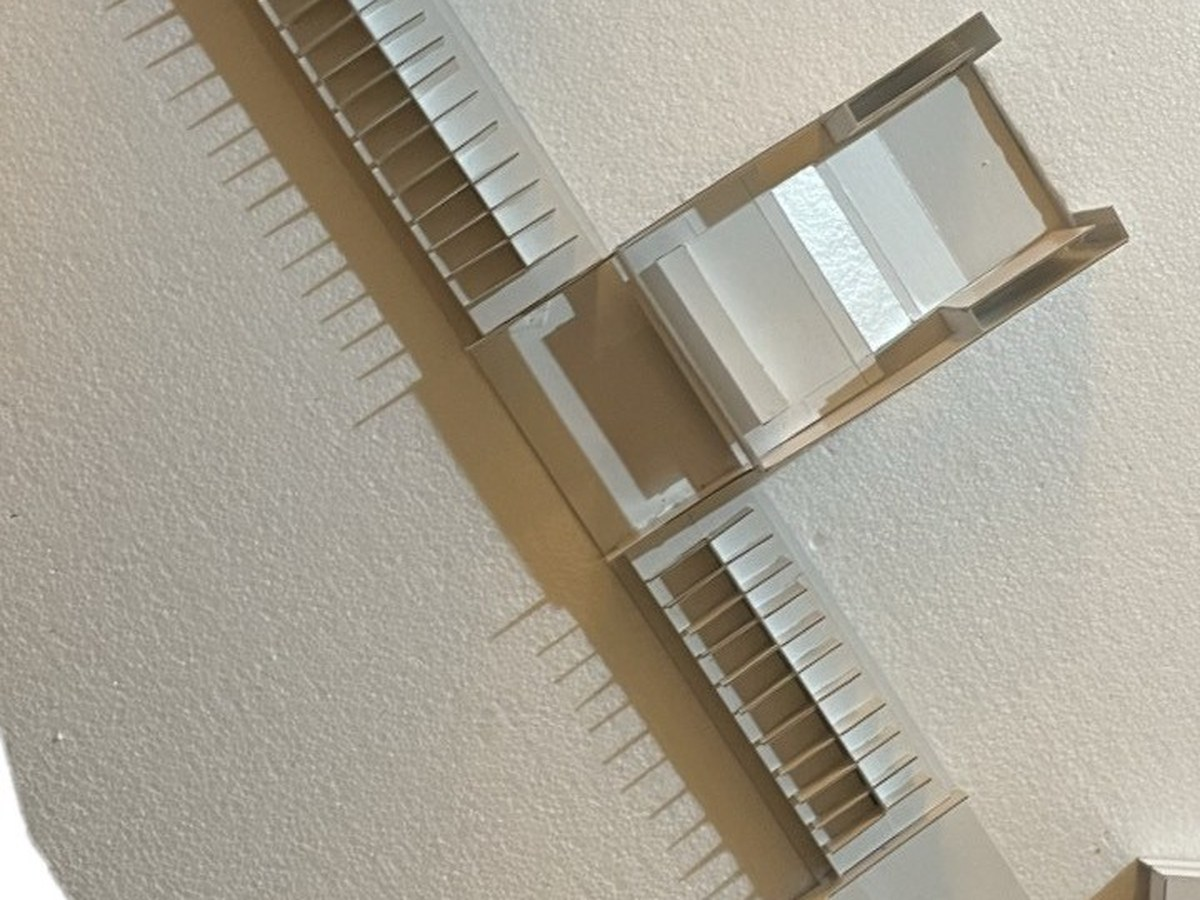
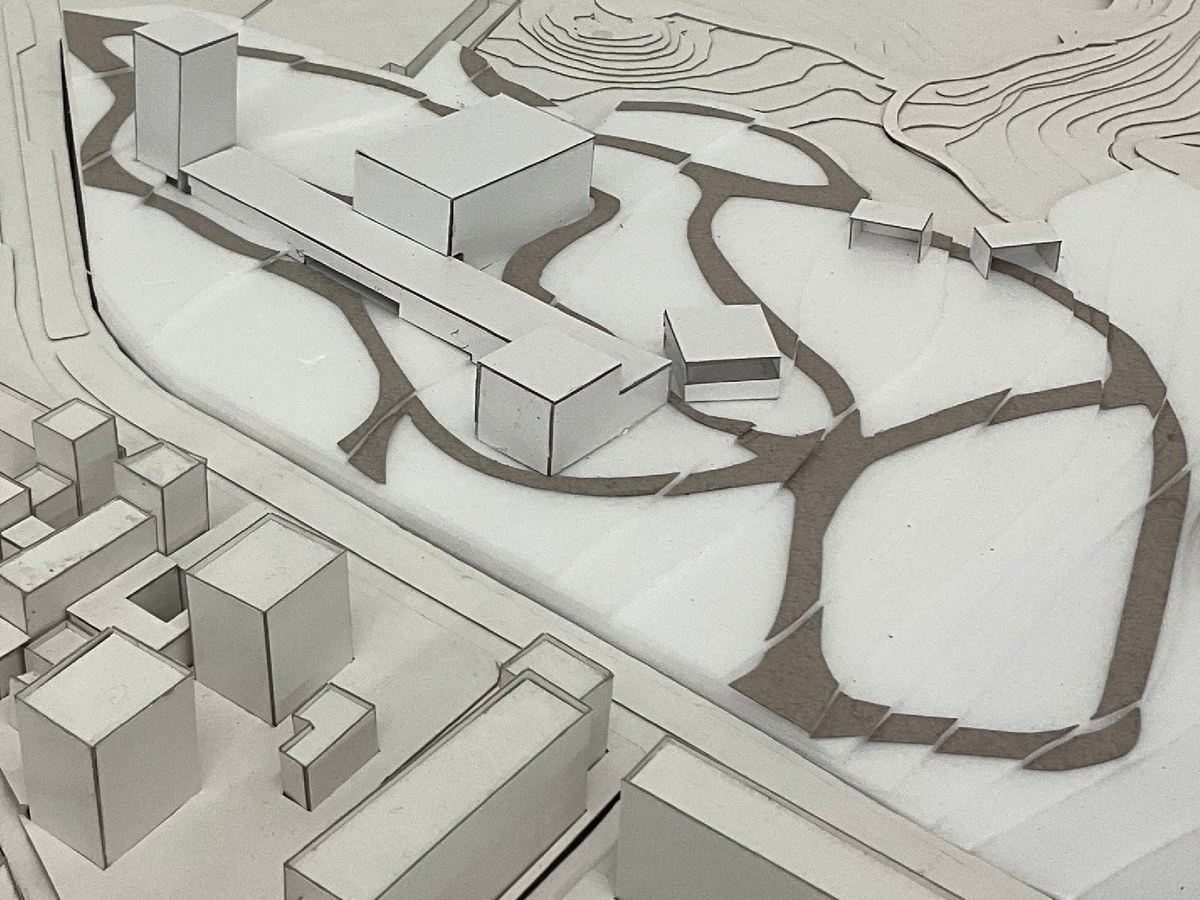
Texto mais escuro, EUROBEC e Atlas revistos, novas miniaturas
- Texto corrido mais escuro (sem a opacidade de 50% nos projetos)
- Atlas: texto revisto e troca das fotos da maquete
- EUROBEC: texto revisto, processo reorganizado, colagens alinhadas
- Rock Oporto: corte construtivo no sistema sustentável, esquisso no projeto
- Miniaturas novas do Rock Oporto e do Beber a Terra

diff --git a/css/style.css b/css/style.css
@@ -11,11 +11,11 @@
   --color-bg: #ffffff;
   --color-bg-alt: #f9f9f9;
   --color-text: #1a1a1a;
-  --color-text-secondary: #666666;
-  --color-text-tertiary: #707070;
+  --color-text-secondary: #555555;
+  --color-text-tertiary: #636363;
   --color-border: #e5e5e5;
   --color-overlay: rgba(0, 0, 0, 0.3);
-  --color-concept: #333333;
+  --color-concept: #363636;
   --color-accent: #a32a2a;
 }
 
@@ -439,7 +439,6 @@ main {
   align-items: flex-start;
   gap: 5rem;
   padding-top: 2.5rem;
-  opacity: 0.5;
 }
 
 .project-intro-body .project-concept {
@@ -578,9 +577,9 @@ main {
 
 .project-concept {
   font-size: 1.0625rem;
-  font-weight: 300;
+  font-weight: 400;
   line-height: 1.8;
-  color: #444444;
+  color: var(--color-concept);
   max-width: 70ch;
   text-align: justify;
 }
@@ -2003,7 +2002,7 @@ footer {
   max-width: 70ch;
   margin-bottom: 3rem;
   font-size: 1.0625rem;
-  font-weight: 300;
+  font-weight: 400;
   line-height: 1.8;
   color: var(--color-concept);
 }
@@ -2089,7 +2088,7 @@ footer {
   padding: 0.45rem 0;
   border-bottom: 1px solid var(--color-border);
   font-size: 0.95rem;
-  font-weight: 300;
+  font-weight: 400;
   color: var(--color-concept);
 }
 
@@ -2218,7 +2217,7 @@ footer {
 
 .research-statement-text {
   font-size: 0.95rem;
-  font-weight: 300;
+  font-weight: 400;
   line-height: 1.7;
   color: var(--color-concept);
   text-align: justify;
@@ -2245,7 +2244,7 @@ footer {
 
 .research-row-text {
   font-size: 0.95rem;
-  font-weight: 300;
+  font-weight: 400;
   line-height: 1.7;
   color: var(--color-concept);
   text-align: justify;
@@ -2381,7 +2380,7 @@ footer {
 
 .research-card-text {
   font-size: 0.9rem;
-  font-weight: 300;
+  font-weight: 400;
   line-height: 1.65;
   color: var(--color-concept);
   text-align: justify;
@@ -2406,7 +2405,7 @@ footer {
 .about-main .cv-item .cv-summary {
   margin-top: 0.6rem;
   font-size: 0.9rem;
-  font-weight: 300;
+  font-weight: 400;
   line-height: 1.6;
   color: var(--color-concept);
   text-align: justify;
@@ -2520,7 +2519,7 @@ footer {
 
 .timeline-text {
   margin: 0;
-  font-weight: 300;
+  font-weight: 400;
   line-height: 1.7;
   color: var(--color-concept);
 }
@@ -2590,7 +2589,7 @@ footer {
 
 .phase-text {
   font-size: 0.9375rem;
-  font-weight: 300;
+  font-weight: 400;
   line-height: 1.7;
   color: var(--color-concept);
 }
@@ -2666,7 +2665,7 @@ footer {
 
 .publication-venue {
   font-size: 0.9375rem;
-  font-weight: 300;
+  font-weight: 400;
   color: var(--color-text-secondary);
   margin-bottom: 0.5rem;
 }
@@ -2832,12 +2831,12 @@ footer {
     margin: 0;
   }
 
-  /* Lighter text and headings, like the project pages */
+  /* Running text like the project pages */
   .about-main p {
     font-size: 1rem;
-    font-weight: 300;
+    font-weight: 400;
     line-height: 1.75;
-    color: #444444;
+    color: var(--color-concept);
   }
 
   .about-main h2 {

diff --git a/js/main.js b/js/main.js
@@ -517,7 +517,9 @@ function renderImages(container, images, parts = []) {
     const vimeo = `<div class="video-embed${image.vertical ? ' video-embed--vertical' : ''}"><iframe src="https://player.vimeo.com/video/${image.vimeo}?${vimeoParams}" title="${alt}" allow="autoplay; fullscreen; picture-in-picture" referrerpolicy="strict-origin-when-cross-origin" loading="lazy"></iframe></div>`;
     const media = image.type === 'video' ? video
       : image.type === 'vimeo' ? vimeo
-      : `<img src="${image.src}" alt="${alt}" loading="lazy">`;
+      // "ratio" (e.g. "5 / 4") crops the picture to that shape, so the pictures
+      // of a grid mosaic line up in columns whatever their original shape
+      : `<img src="${image.src}" alt="${alt}" loading="lazy"${image.ratio ? ` style="aspect-ratio: ${image.ratio}; object-fit: cover"` : ''}>`;
     imageDiv.innerHTML = `
       ${media}
       ${image.caption ? `<div class="image-caption">${getText(image.caption)}</div>` : ''}

diff --git a/project.html b/project.html
@@ -22,7 +22,7 @@
   <link href="https://fonts.googleapis.com/css2?family=Architects+Daughter&family=Inter:wght@300;400;500;600&display=swap" rel="stylesheet">
   
   <!-- Stylesheet -->
-  <link rel="stylesheet" href="css/style.css?v=30">
+  <link rel="stylesheet" href="css/style.css?v=31">
   <link rel="stylesheet" href="css/caderno.css?v=30">
 </head>
 <body>
@@ -94,7 +94,7 @@
   </footer>
 
   <!-- JavaScript -->
-  <script src="js/main.js?v=30"></script>
+  <script src="js/main.js?v=31"></script>
   <script src="js/caderno.js?v=30"></script>
 </body>
 </html>

diff --git a/404.html b/404.html
@@ -22,7 +22,7 @@
   <link href="https://fonts.googleapis.com/css2?family=Inter:wght@300;400;500;600&display=swap" rel="stylesheet">
 
   <!-- Stylesheet -->
-  <link rel="stylesheet" href="css/style.css?v=30">
+  <link rel="stylesheet" href="css/style.css?v=31">
 </head>
 <body>
   <!-- Fixed Header -->
@@ -68,7 +68,7 @@
   </footer>
 
   <!-- JavaScript -->
-  <script src="js/main.js?v=30"></script>
+  <script src="js/main.js?v=31"></script>
   <script>
     // Update 404 page text based on language
     function update404Text() {

diff --git a/about.html b/about.html
@@ -23,7 +23,7 @@
   <link href="https://fonts.googleapis.com/css2?family=Inter:wght@300;400;500;600&display=swap" rel="stylesheet">
 
   <!-- Stylesheet -->
-  <link rel="stylesheet" href="css/style.css?v=30">
+  <link rel="stylesheet" href="css/style.css?v=31">
 </head>
 <body>
   <!-- Fixed Header -->
@@ -115,6 +115,6 @@
   </footer>
 
   <!-- JavaScript -->
-  <script src="js/main.js?v=30"></script>
+  <script src="js/main.js?v=31"></script>
 </body>
 </html>

diff --git a/index.html b/index.html
@@ -23,7 +23,7 @@
   <link href="https://fonts.googleapis.com/css2?family=Inter:wght@300;400;500;600&display=swap" rel="stylesheet">
   
   <!-- Stylesheet -->
-  <link rel="stylesheet" href="css/style.css?v=30">
+  <link rel="stylesheet" href="css/style.css?v=31">
 </head>
 <body>
   <!-- Fixed Header -->
@@ -70,6 +70,6 @@
   </footer>
 
   <!-- JavaScript -->
-  <script src="js/main.js?v=30"></script>
+  <script src="js/main.js?v=31"></script>
 </body>
 </html>

diff --git a/research.html b/research.html
@@ -22,7 +22,7 @@
   <link href="https://fonts.googleapis.com/css2?family=Inter:wght@300;400;500;600&display=swap" rel="stylesheet">
   
   <!-- Stylesheet -->
-  <link rel="stylesheet" href="css/style.css?v=30">
+  <link rel="stylesheet" href="css/style.css?v=31">
 </head>
 <body>
   <!-- Fixed Header -->
@@ -93,6 +93,6 @@
   </footer>
 
   <!-- JavaScript -->
-  <script src="js/main.js?v=30"></script>
+  <script src="js/main.js?v=31"></script>
 </body>
 </html>

diff --git a/participation.html b/participation.html
@@ -22,7 +22,7 @@
   <link href="https://fonts.googleapis.com/css2?family=Inter:wght@300;400;500;600&display=swap" rel="stylesheet">
 
   <!-- Stylesheet -->
-  <link rel="stylesheet" href="css/style.css?v=30">
+  <link rel="stylesheet" href="css/style.css?v=31">
 </head>
 <body>
   <!-- Fixed Header -->
@@ -89,6 +89,6 @@
   </footer>
 
   <!-- JavaScript -->
-  <script src="js/main.js?v=30"></script>
+  <script src="js/main.js?v=31"></script>
 </body>
 </html>

diff --git a/CLAUDE.md b/CLAUDE.md
@@ -66,7 +66,7 @@ Image captions (including the drawing scale, e.g. "E 1.100" / "scale 1:100") liv
 
 Videos: `"type": "video"` plays a local MP4 silently in a loop (add `"controls": true` for sound and controls); `"type": "vimeo", "vimeo": "<id>"` embeds Vimeo's player (add `"vertical": true` for 9:16, `"loop": true` to repeat, `"autoplay": true` to play silently in a loop). Participations use the same layouts when their images have `layout`.
 
-Image layouts: `full`, `half` (consecutive halves share a row; `"row": "equal"` keeps one height), `inset`, and `tile` (consecutive tiles form a mosaic; `"mosaic"` on the first names the arrangement: `grid-3`, `grid-2`, `grid-2-narrow`, `row-4`, `uniform` (equal cells, drawings whole), `justified` or `justified-N` (N per row), `masonry`, `scroll` (one row scrolling sideways), plus the modifier `narrow`, e.g. `"justified-2 narrow"`). `"groupCaption"` on the first tile gives the whole mosaic one caption (its pictures then need no `caption`). A project can be split into numbered parts (`parts` + `"part"` on the image that opens each one), e.g. Rock Oporto (Projeto / Sistema construtivo e estrutural / sustentável) and the Centro Interpretativo.
+Image layouts: `full`, `half` (consecutive halves share a row; `"row": "equal"` keeps one height), `inset`, and `tile` (consecutive tiles form a mosaic; `"mosaic"` on the first names the arrangement: `grid-3`, `grid-2`, `grid-2-narrow`, `row-4`, `uniform` (equal cells, drawings whole), `justified` or `justified-N` (N per row), `masonry`, `scroll` (one row scrolling sideways), plus the modifier `narrow`, e.g. `"justified-2 narrow"`). `"ratio": "5 / 4"` on a picture crops it to that shape (e.g. so the rows of a `grid-3` line up in columns). `"groupCaption"` on the first tile gives the whole mosaic one caption (its pictures then need no `caption`). A project can be split into numbered parts (`parts` + `"part"` on the image that opens each one), e.g. Rock Oporto (Projeto / Sistema construtivo e estrutural / sustentável) and the Centro Interpretativo.
 
 Scales in captions are written "E: 1:500" (EN "Scale: 1:500"); teachers carry "Professor"/"Professora" per language.
 
